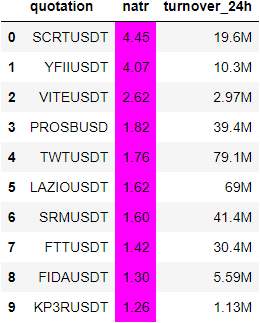
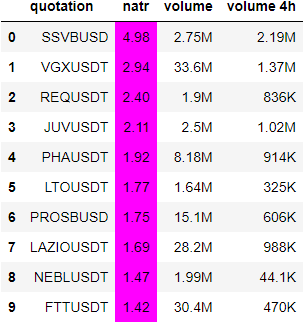
add image generation for spot screening

diff --git a/tg_img_table_creator.py b/tg_img_table_creator.py
@@ -6,7 +6,7 @@ def img_table_creator(df_inn, column_name):
     df = df_inn.copy()
     path = 'screener_results/'
 
-    if df.shape[1] == 6: # it is futures market
+    if df.shape[1] == 7: # it is futures market
         df_ = df.loc[:, ['quotation', 'turnover_24h', 'open_interest', 'funding_rate', 'natr']]
         df_.rename(columns = {'turnover_24h' : 'volume', 
                             'open_interest' : 'OI', 
@@ -27,10 +27,11 @@ def img_table_creator(df_inn, column_name):
                 metric_name = 'natr'
         if column_name == 'funding rate': metric_name = 'fundings'
 
-    elif df.shape[1] == 3:
+    elif df.shape[1] == 4:
         
-        df_ = df.loc[:, ['quotation', 'natr', 'turnover_24h']]
-        df_.rename(columns = {'turnover_24h' : 'volume'})
+        df_ = df.loc[:, ['quotation', 'natr', 'turnover_24h', 'vol_4h']]
+        df_.rename(columns = {'turnover_24h' : 'volume',
+                              'vol_4h': 'volume 4h'}, inplace = True)
 
         df_.reset_index(drop=True, inplace=True)
         

diff --git a/tg_msg_preparer.py b/tg_msg_preparer.py
@@ -35,6 +35,9 @@ def df_formatter(df):
     if 'turnover_24h' in df_format:
         df_format['turnover_24h'] = \
             df_format['turnover_24h'].apply(lambda x: num_formatter(x))
+    if 'vol_4h' in df_format:
+        df_format['vol_4h'] = \
+            df_format['vol_4h'].apply(lambda x: num_formatter(x))
     if 'open_interest' in df_format:
         df_format['open_interest'] = \
             df_format['open_interest'].apply(lambda x: num_formatter(x))

diff --git a/tg_screener_bot.py b/tg_screener_bot.py
@@ -160,7 +160,7 @@ class ScreenerBot:
 
         if msg == 'NATR SPOT':
             caption = 'top qoutes by NATR' + '\n' + '\n' + \
-                self.tickers_natrs
+                self.tickers_natrs_spot
             self.sender.send_photo(chat_id, 'screener_results/' + 'natr_spot' + '.png', caption)
             self.reply_spot(chat_id)
 
